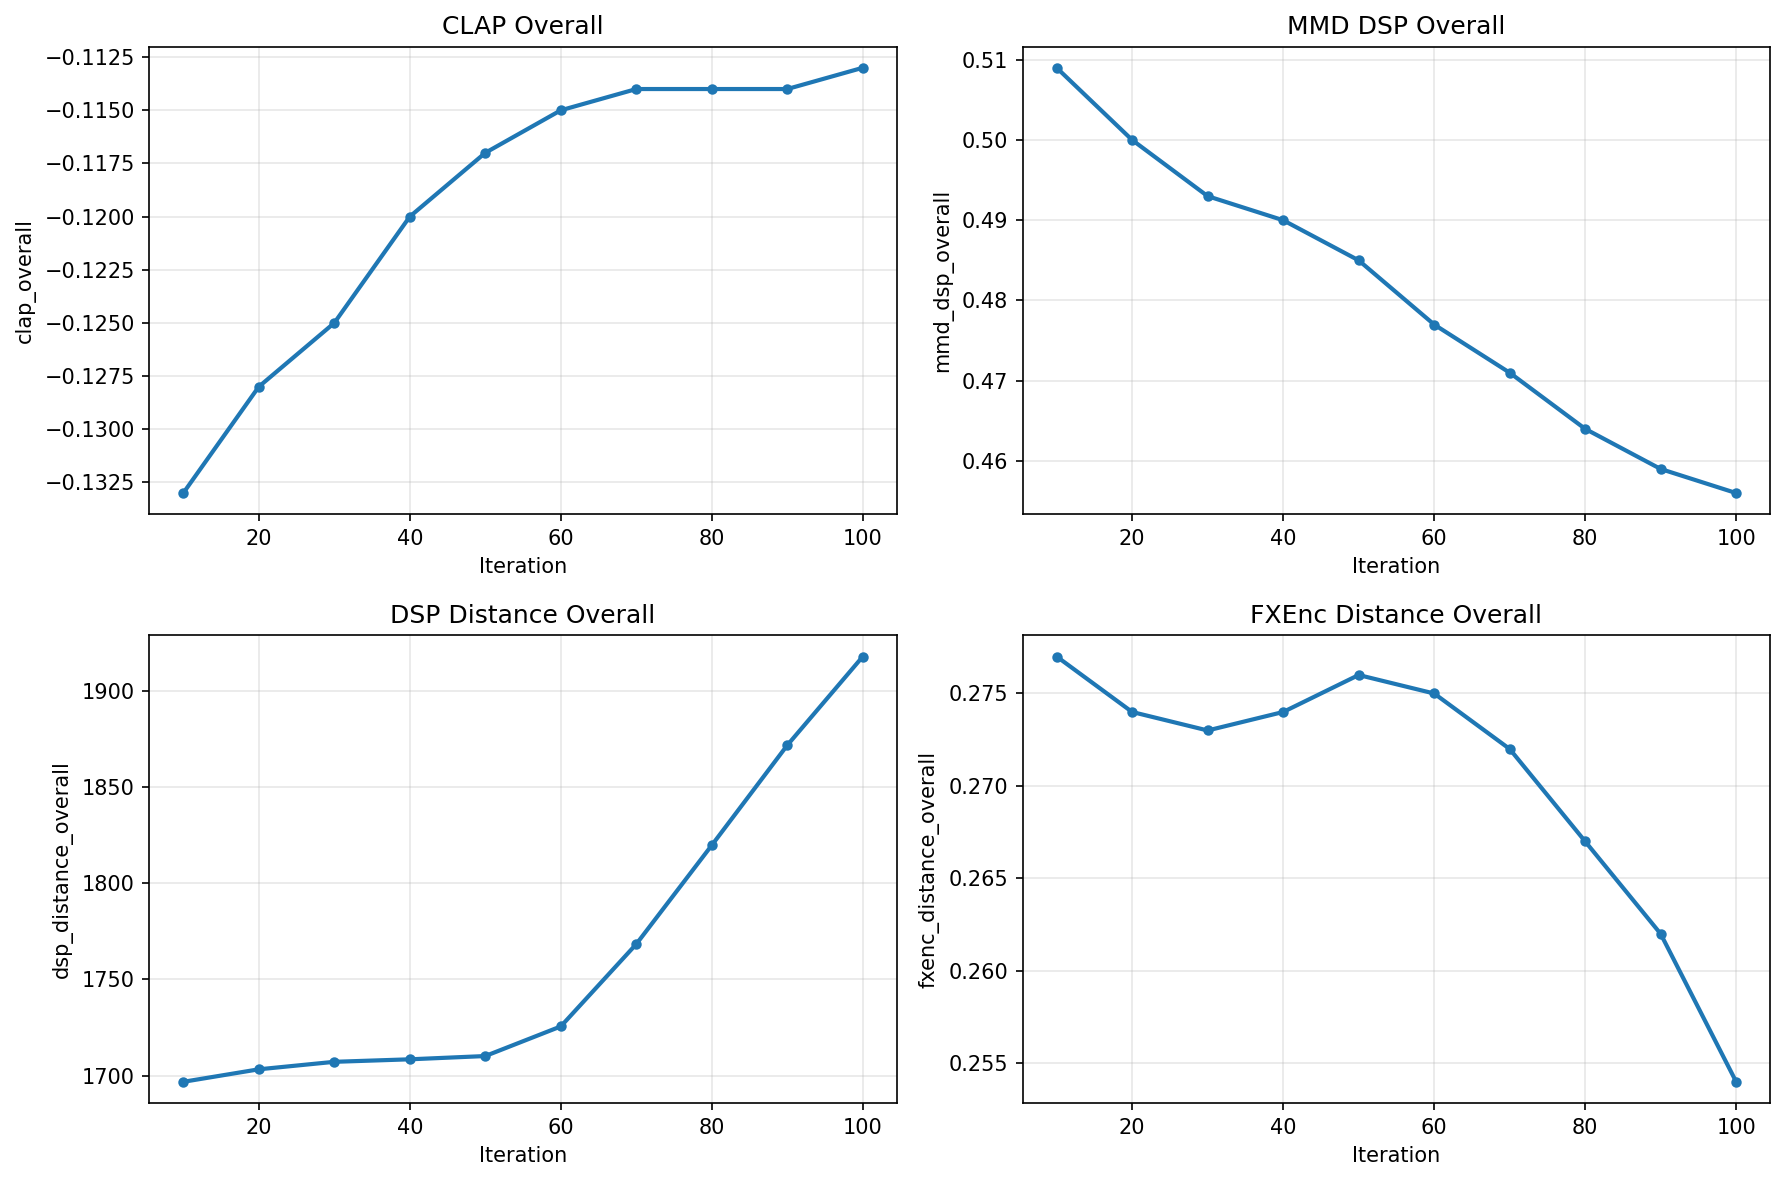
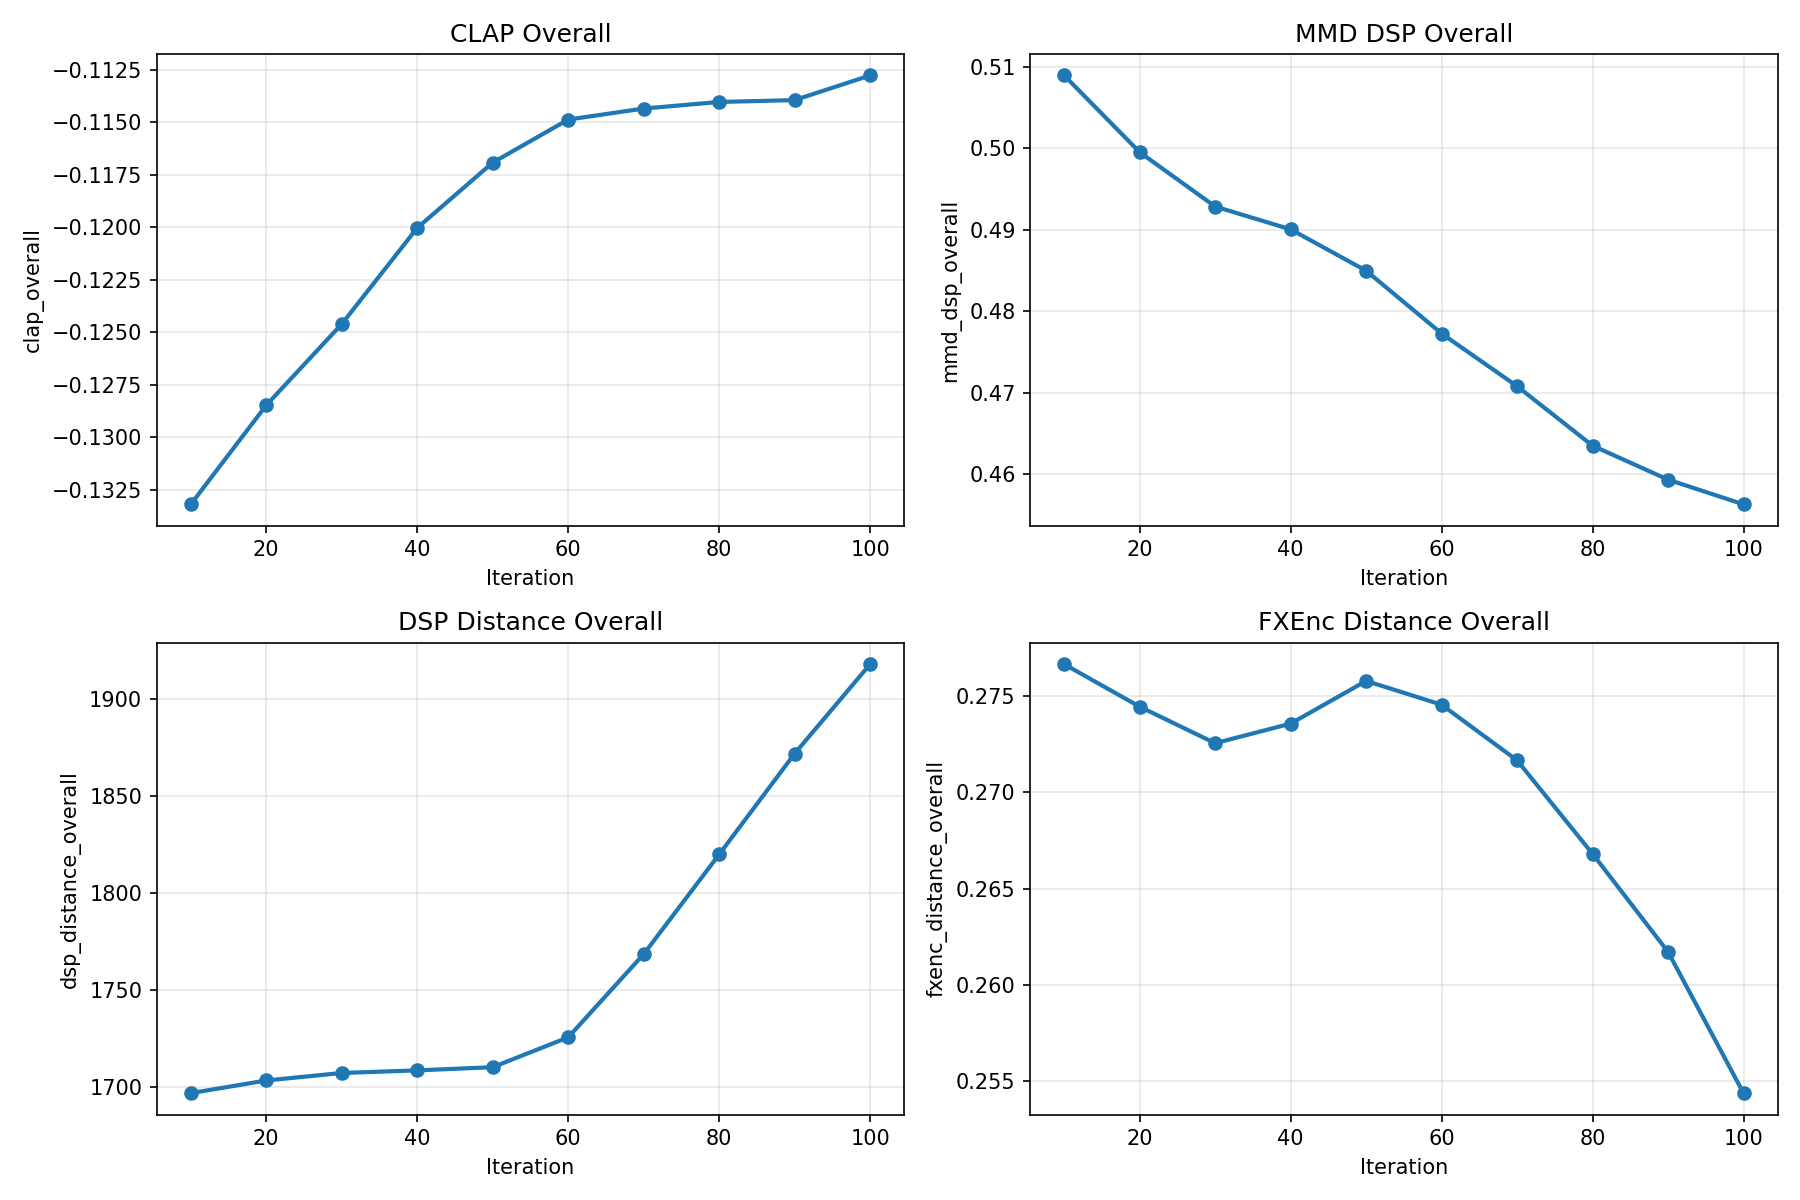
plots (different versions)

diff --git a/scratchpad/plot_traj.py b/scratchpad/plot_traj.py
@@ -1,0 +1,35 @@
+import importlib.util
+import matplotlib.pyplot as plt
+
+spec = importlib.util.spec_from_file_location("rec", "eval/recreate_exp5_original_trajectory_plot.py")
+m = importlib.util.module_from_spec(spec)
+spec.loader.exec_module(m)
+
+import json
+
+ARCHIVE_JSON = m.ROOT / "eval" / "results" / "archive" / "metrics_iterations_2026-06-29_19-28-54.json"
+with ARCHIVE_JSON.open("r", encoding="utf-8") as f:
+    data = json.load(f)
+trajectory = data["llm_clap"]["trajectory"]
+
+# (overall_metric, title, per_inst_metric or None) — afx_rep + CLAP removed, "Overall" stripped
+metric_specs = [
+    ("mmd_dsp_overall",       "MMD DSP",       "mmd_dsp_per_inst"),
+    ("mmd_fxenc_emb_overall", "MMD FXEnc Emb", "mmd_fxenc_emb_per_inst"),
+    ("mmd_clap_emb_overall",  "MMD CLAP Emb",  "mmd_clap_emb_per_inst"),
+    ("mmd_vggish_overall",    "MMD VGGish",    "mmd_vggish_per_inst"),
+]
+
+# Layout 2, 2 per row
+fig, axs = plt.subplots(2, 2, figsize=(14, 2 * 3.5), dpi=150)
+axes = list(axs.flat)
+
+for ax, (overall_metric, title, per_inst_metric) in zip(axes, metric_specs):
+    m._plot_metric(ax, trajectory, overall_metric, title, per_inst_metric)
+
+plt.tight_layout()
+out_png = m.ROOT / "eval" / "results" / "exp5" / f"trajectory_plot_{ARCHIVE_JSON.stem}_noafx.png"
+out_png.parent.mkdir(parents=True, exist_ok=True)
+plt.savefig(out_png)
+plt.close(fig)
+print(f"Saved: {out_png}")

diff --git a/scratchpad/plot_traj_mmd.py b/scratchpad/plot_traj_mmd.py
@@ -1,0 +1,38 @@
+import json
+from pathlib import Path
+import matplotlib.pyplot as plt
+
+ROOT = Path(__file__).resolve().parent.parent
+ARCHIVE_JSON = ROOT / "eval" / "results" / "archive" / "metrics_iterations_2026-06-29_19-28-54.json"
+
+with ARCHIVE_JSON.open("r", encoding="utf-8") as f:
+    data = json.load(f)
+trajectory = data["llm_clap"]["trajectory"]
+
+iterations = [step["iteration"] for step in trajectory]
+
+# Overall MMD scores only (no per-instrument breakdown)
+metric_specs = [
+    ("mmd_dsp_overall",       "MMD DSP",       "#2196F3"),
+    ("mmd_fxenc_emb_overall", "MMD FXEnc Emb", "#FF5722"),
+    ("mmd_clap_emb_overall",  "MMD CLAP Emb",  "#4CAF50"),
+    ("mmd_vggish_overall",    "MMD VGGish",    "#9C27B0"),
+]
+
+fig, ax = plt.subplots(figsize=(9, 6), dpi=150)
+for metric, label, colour in metric_specs:
+    values = [step.get(metric) for step in trajectory]
+    ax.plot(iterations, values, marker="o", linewidth=2, color=colour, label=label)
+
+ax.set_title("MMD Score")
+ax.set_xlabel("Iteration")
+ax.set_ylabel("MMD")
+ax.grid(True, alpha=0.3)
+ax.legend(fontsize=9, loc="upper right")
+
+plt.tight_layout()
+out_png = ROOT / "eval" / "results" / "exp5" / f"trajectory_plot_{ARCHIVE_JSON.stem}_mmd_only.png"
+out_png.parent.mkdir(parents=True, exist_ok=True)
+plt.savefig(out_png)
+plt.close(fig)
+print(f"Saved: {out_png}")
